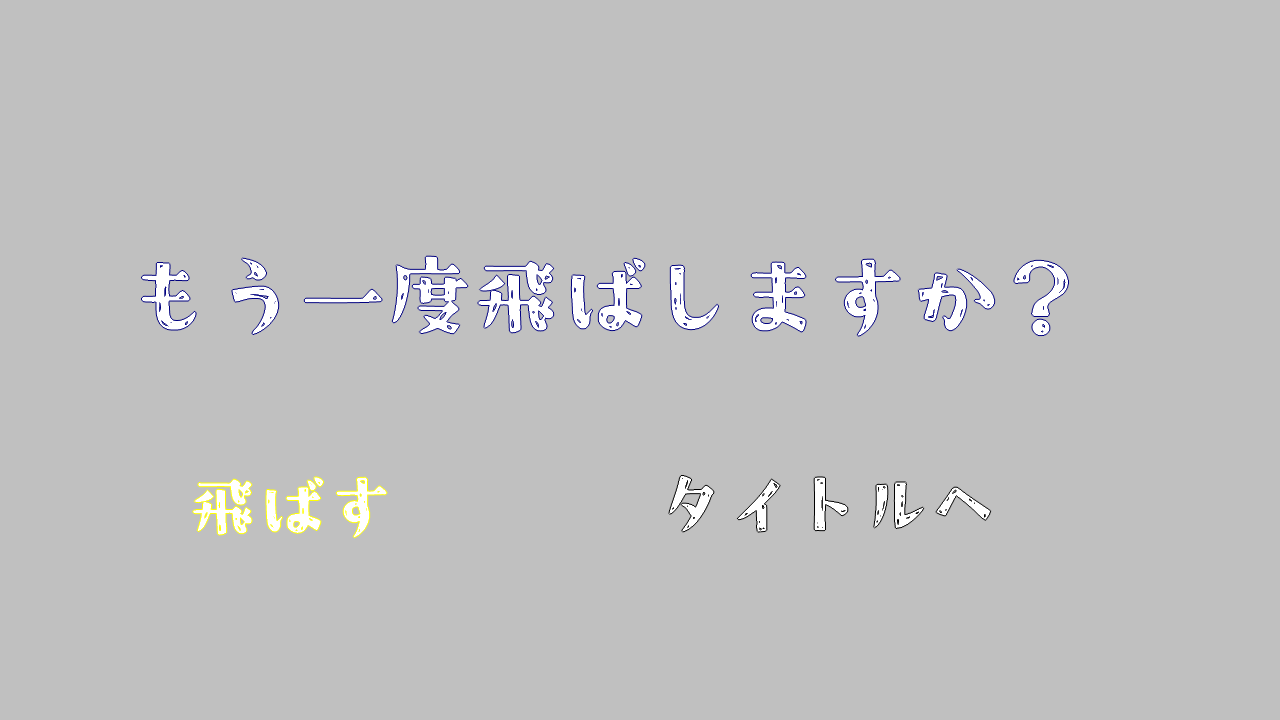
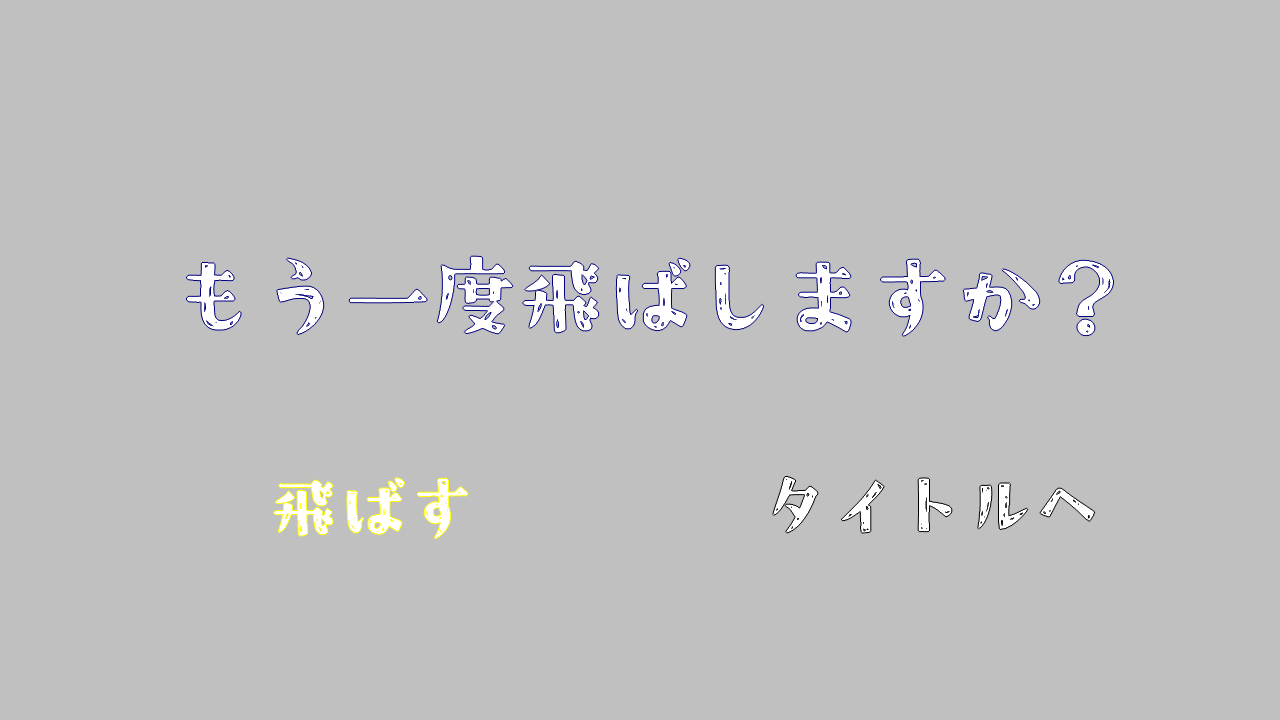
カメラの追従の修正

Changed region(s): [[0.0938, 0.3361, 0.875, 0.4889], [0.5, 0.6417, 0.875, 0.7333], [0.1562, 0.6417, 0.375, 0.7639]]

diff --git a/DirectXGame/CameraController.cpp b/DirectXGame/CameraController.cpp
@@ -18,8 +18,7 @@ void CameraController::Update() {
 	// 追従対象とオフセットからカメラの目標座標を計算
 	goalPos = targetWorldTransform.translation_ + targetOffset_ + targetVelocity * kVelocityBias;
 
-    // 座標補間によりゆったり追従（YやZだけ補間）
-	camera_.translation_.y = Lerp(camera_.translation_.y, goalPos.y, kInterpolationRate);
+	camera_.translation_.y = targetWorldTransform.translation_.y + targetOffset_.y;
 
 	// 追従対象が画面外に出ないように補正
 	camera_.translation_.y = std::max(camera_.translation_.y, targetWorldTransform.translation_.y + kMargin.bottom);
